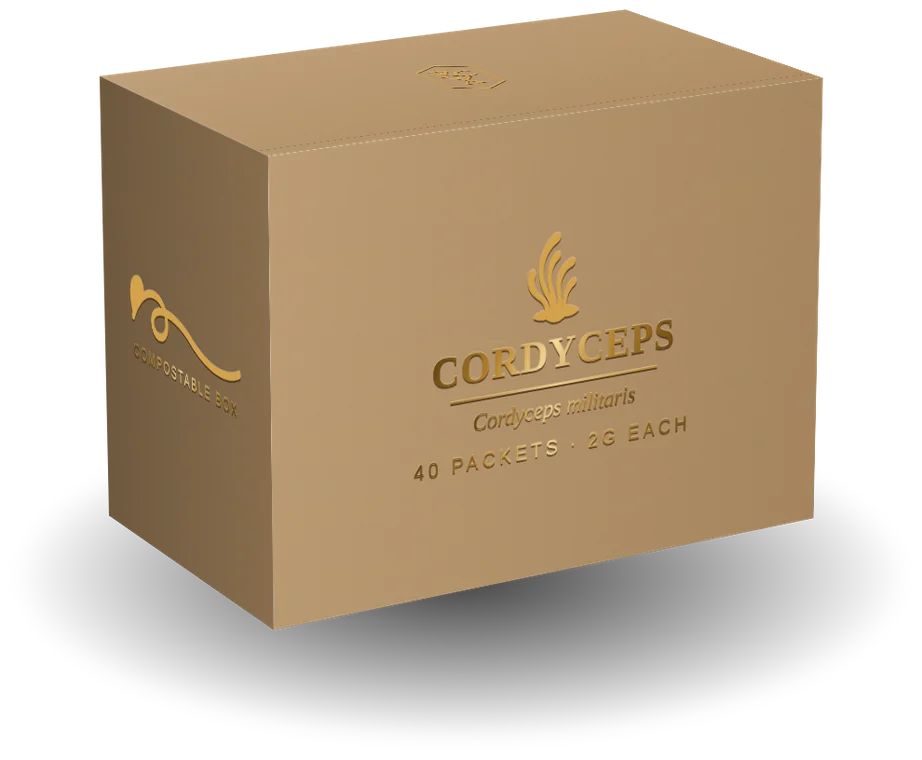
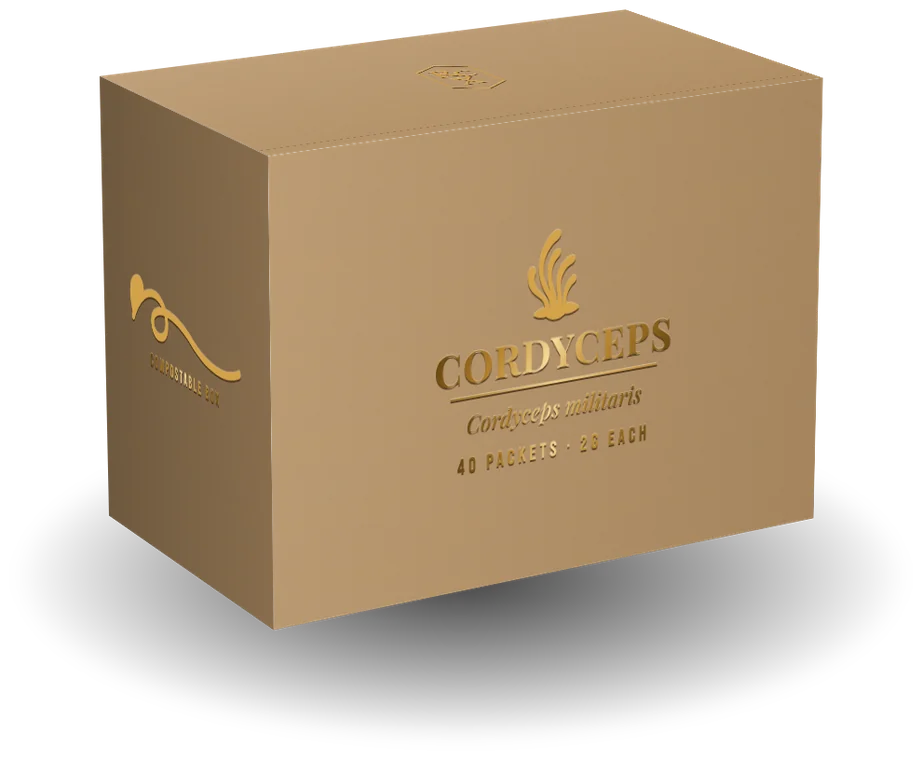
Kraft box renders use the real Bebas and Playfair fonts (#171)
Claude-Session: https://claude.ai/code/session_01MhYC1AY8xeCEEXMzs5T9VR

diff --git a/index.html b/index.html
@@ -1754,7 +1754,7 @@ html body .mx-sec[data-m="mx-tt"] .mx-title>a.mx-ic-link>img{background:linear-g
 
 <article style="border:1px solid rgba(212,162,74,.2);background:linear-gradient(#0A0A09,#000);padding:16px;display:flex;flex-direction:column">
 <div data-pack-stage="box" style="position:relative;aspect-ratio:4/5;background:radial-gradient(70% 55% at 50% 42%,#2a2622 0%,#0d0c0b 60%,#000 100%);margin-bottom:20px;overflow:hidden">
-<img src="assets/photo/pack/box-lm.webp?v=1" alt="Lion's Mane compostable box" style="position:absolute;left:50%;top:52%;width:104%;height:auto;max-width:none;transform:translate(-50%,-50%);display:block">
+<img src="assets/photo/pack/box-lm.webp?v=2" alt="Lion's Mane compostable box" style="position:absolute;left:50%;top:52%;width:104%;height:auto;max-width:none;transform:translate(-50%,-50%);display:block">
 </div>
 <h2 style="font-family:'Playfair Display',serif;font-weight:500;font-size:clamp(30px,2.6vw,38px);color:#F1ECE1;margin:0 0 8px;white-space:nowrap;font-size:clamp(18px,2.05vw,34px)">Lion's Mane Box</h2>
 <p style="font-family:'Bebas Neue',sans-serif;letter-spacing:.14em;font-size:clamp(19px,1.8vw,24px);color:#D4A24A;margin:0 0 10px">COMPOSTABLE BOX</p>
@@ -1780,7 +1780,7 @@ html body .mx-sec[data-m="mx-tt"] .mx-title>a.mx-ic-link>img{background:linear-g
 
 <article style="border:1px solid rgba(212,162,74,.2);background:linear-gradient(#0A0A09,#000);padding:16px;display:flex;flex-direction:column">
 <div data-pack-stage="box" style="position:relative;aspect-ratio:4/5;background:radial-gradient(70% 55% at 50% 42%,#2a2622 0%,#0d0c0b 60%,#000 100%);margin-bottom:20px;overflow:hidden">
-<img src="assets/photo/pack/box-cd.webp?v=1" alt="Cordyceps compostable box" style="position:absolute;left:50%;top:52%;width:104%;height:auto;max-width:none;transform:translate(-50%,-50%);display:block">
+<img src="assets/photo/pack/box-cd.webp?v=2" alt="Cordyceps compostable box" style="position:absolute;left:50%;top:52%;width:104%;height:auto;max-width:none;transform:translate(-50%,-50%);display:block">
 </div>
 <h2 style="font-family:'Playfair Display',serif;font-weight:500;font-size:clamp(30px,2.6vw,38px);color:#F1ECE1;margin:0 0 8px;white-space:nowrap;font-size:clamp(18px,2.05vw,34px)">Cordyceps Box</h2>
 <p style="font-family:'Bebas Neue',sans-serif;letter-spacing:.14em;font-size:clamp(19px,1.8vw,24px);color:#D4A24A;margin:0 0 10px">COMPOSTABLE BOX</p>
@@ -1806,7 +1806,7 @@ html body .mx-sec[data-m="mx-tt"] .mx-title>a.mx-ic-link>img{background:linear-g
 
 <article style="border:1px solid rgba(212,162,74,.2);background:linear-gradient(#0A0A09,#000);padding:16px;display:flex;flex-direction:column">
 <div data-pack-stage="box" style="position:relative;aspect-ratio:4/5;background:radial-gradient(70% 55% at 50% 42%,#2a2622 0%,#0d0c0b 60%,#000 100%);margin-bottom:20px;overflow:hidden">
-<img src="assets/photo/pack/box-tt.webp?v=1" alt="Turkey Tail compostable box" style="position:absolute;left:50%;top:52%;width:104%;height:auto;max-width:none;transform:translate(-50%,-50%);display:block">
+<img src="assets/photo/pack/box-tt.webp?v=2" alt="Turkey Tail compostable box" style="position:absolute;left:50%;top:52%;width:104%;height:auto;max-width:none;transform:translate(-50%,-50%);display:block">
 </div>
 <h2 style="font-family:'Playfair Display',serif;font-weight:500;font-size:clamp(30px,2.6vw,38px);color:#F1ECE1;margin:0 0 8px;white-space:nowrap;font-size:clamp(18px,2.05vw,34px)">Turkey Tail Box</h2>
 <p style="font-family:'Bebas Neue',sans-serif;letter-spacing:.14em;font-size:clamp(19px,1.8vw,24px);color:#D4A24A;margin:0 0 10px">COMPOSTABLE BOX</p>
@@ -1832,7 +1832,7 @@ html body .mx-sec[data-m="mx-tt"] .mx-title>a.mx-ic-link>img{background:linear-g
 
 <article style="border:1px solid rgba(212,162,74,.2);background:linear-gradient(#0A0A09,#000);padding:16px;display:flex;flex-direction:column">
 <div data-pack-stage="box" style="position:relative;aspect-ratio:4/5;background:radial-gradient(70% 55% at 50% 42%,#2a2622 0%,#0d0c0b 60%,#000 100%);margin-bottom:20px;overflow:hidden">
-<img src="assets/photo/pack/box-co.webp?v=1" alt="Combo compostable box" style="position:absolute;left:50%;top:52%;width:112%;height:auto;max-width:none;transform:translate(-50%,-50%);display:block">
+<img src="assets/photo/pack/box-co.webp?v=2" alt="Combo compostable box" style="position:absolute;left:50%;top:52%;width:112%;height:auto;max-width:none;transform:translate(-50%,-50%);display:block">
 </div>
 <h2 style="font-family:'Playfair Display',serif;font-weight:500;font-size:clamp(30px,2.6vw,38px);color:#F1ECE1;margin:0 0 8px;white-space:nowrap;font-size:clamp(18px,2.05vw,34px)">Combo Box</h2>
 <p style="font-family:'Bebas Neue',sans-serif;letter-spacing:.14em;font-size:clamp(19px,1.8vw,24px);color:#D4A24A;margin:0 0 10px">COMPOSTABLE BOX</p>
@@ -1875,7 +1875,7 @@ html body .mx-sec[data-m="mx-tt"] .mx-title>a.mx-ic-link>img{background:linear-g
 </div>
 </section>
 
-<section data-m="pack-sec" class="pk-sec"><div class="pk-wrap"><div class="mx-title"><h2>WHAT IT COMES IN</h2><p>A steel tin you keep. <span>A compostable box to refill it.</span></p></div><div class="pk-grid"><figure class="pk-tile pk-tin"><div class="pk-img"><img src="assets/photo/pack/tin-lm.webp?v=1" alt="Lion's Mane packaging" loading="lazy"></div><figcaption><span class="pk-name">Lion's Mane</span><span class="pk-kind">STEEL TIN · 20 PACKETS</span><span class="pk-dim">About 3.1 x 2.2 x 4 in</span></figcaption></figure><figure class="pk-tile pk-tin"><div class="pk-img"><img src="assets/photo/pack/tin-cd.webp?v=1" alt="Cordyceps packaging" loading="lazy"></div><figcaption><span class="pk-name">Cordyceps</span><span class="pk-kind">STEEL TIN · 20 PACKETS</span><span class="pk-dim">About 3.1 x 2.2 x 4 in</span></figcaption></figure><figure class="pk-tile pk-tin"><div class="pk-img"><img src="assets/photo/pack/tin-tt.webp?v=1" alt="Turkey Tail packaging" loading="lazy"></div><figcaption><span class="pk-name">Turkey Tail</span><span class="pk-kind">STEEL TIN · 20 PACKETS</span><span class="pk-dim">About 3.1 x 2.2 x 4 in</span></figcaption></figure><figure class="pk-tile pk-tin"><div class="pk-img"><img src="assets/photo/pack/tin-co.webp?v=1" alt="Triple Power packaging" loading="lazy"></div><figcaption><span class="pk-name">Triple Power</span><span class="pk-kind">COMBO STEEL TIN · 30 PACKETS</span><span class="pk-dim">About 3.1 x 2.2 x 5 in</span></figcaption></figure><figure class="pk-tile pk-box"><div class="pk-img"><img src="assets/photo/pack/box-lm.webp?v=1" alt="The Refill Box packaging" loading="lazy"></div><figcaption><span class="pk-name">The Refill Box</span><span class="pk-kind">COMPOSTABLE KRAFT · 40 PACKETS</span><span class="pk-dim">About 4.3 x 2.6 x 3.2 in</span></figcaption></figure><figure class="pk-tile pk-box"><div class="pk-img"><img src="assets/photo/pack/box-co.webp?v=1" alt="The Combo Box packaging" loading="lazy"></div><figcaption><span class="pk-name">The Combo Box</span><span class="pk-kind">COMPOSTABLE KRAFT · 60 PACKETS</span><span class="pk-dim">About 6.5 x 2.6 x 3.2 in</span></figcaption></figure></div><p class="pk-note">In the tin, the packets lie flat. In the box, they stand on edge like files. Turn the tin over and one slides out. Sizes are close; final sizes come with the molds.</p></div></section>
+<section data-m="pack-sec" class="pk-sec"><div class="pk-wrap"><div class="mx-title"><h2>WHAT IT COMES IN</h2><p>A steel tin you keep. <span>A compostable box to refill it.</span></p></div><div class="pk-grid"><figure class="pk-tile pk-tin"><div class="pk-img"><img src="assets/photo/pack/tin-lm.webp?v=1" alt="Lion's Mane packaging" loading="lazy"></div><figcaption><span class="pk-name">Lion's Mane</span><span class="pk-kind">STEEL TIN · 20 PACKETS</span><span class="pk-dim">About 3.1 x 2.2 x 4 in</span></figcaption></figure><figure class="pk-tile pk-tin"><div class="pk-img"><img src="assets/photo/pack/tin-cd.webp?v=1" alt="Cordyceps packaging" loading="lazy"></div><figcaption><span class="pk-name">Cordyceps</span><span class="pk-kind">STEEL TIN · 20 PACKETS</span><span class="pk-dim">About 3.1 x 2.2 x 4 in</span></figcaption></figure><figure class="pk-tile pk-tin"><div class="pk-img"><img src="assets/photo/pack/tin-tt.webp?v=1" alt="Turkey Tail packaging" loading="lazy"></div><figcaption><span class="pk-name">Turkey Tail</span><span class="pk-kind">STEEL TIN · 20 PACKETS</span><span class="pk-dim">About 3.1 x 2.2 x 4 in</span></figcaption></figure><figure class="pk-tile pk-tin"><div class="pk-img"><img src="assets/photo/pack/tin-co.webp?v=1" alt="Triple Power packaging" loading="lazy"></div><figcaption><span class="pk-name">Triple Power</span><span class="pk-kind">COMBO STEEL TIN · 30 PACKETS</span><span class="pk-dim">About 3.1 x 2.2 x 5 in</span></figcaption></figure><figure class="pk-tile pk-box"><div class="pk-img"><img src="assets/photo/pack/box-lm.webp?v=2" alt="The Refill Box packaging" loading="lazy"></div><figcaption><span class="pk-name">The Refill Box</span><span class="pk-kind">COMPOSTABLE KRAFT · 40 PACKETS</span><span class="pk-dim">About 4.3 x 2.6 x 3.2 in</span></figcaption></figure><figure class="pk-tile pk-box"><div class="pk-img"><img src="assets/photo/pack/box-co.webp?v=2" alt="The Combo Box packaging" loading="lazy"></div><figcaption><span class="pk-name">The Combo Box</span><span class="pk-kind">COMPOSTABLE KRAFT · 60 PACKETS</span><span class="pk-dim">About 6.5 x 2.6 x 3.2 in</span></figcaption></figure></div><p class="pk-note">In the tin, the packets lie flat. In the box, they stand on edge like files. Turn the tin over and one slides out. Sizes are close; final sizes come with the molds.</p></div></section>
 <section class="sr-sec" data-m="shop-research"><div class="sr-wrap"><div class="mx-title"><h2>THE RESEARCH</h2><p>Don't ask us. <span>Ask them.</span></p></div><div class="sr-grid"><a href="https://pubmed.ncbi.nlm.nih.gov/?term=%22Hericium+erinaceus%22" target="_blank" rel="noopener" class="mx-box mx-lab"><span class="lab-hd">LAB REPORT · PUBMED SEARCH · OCT 2026</span><span class="lab-title">LION'S MANE · HERICIUM ERINACEUS</span><span class="lab-rows"><span class="lab-row"><span class="lab-n">590</span><span class="lab-bar"><i style="width:100%"></i></span><span class="lab-l">PUBLISHED PAPERS</span></span><span class="lab-row"><span class="lab-n">343</span><span class="lab-bar"><i style="width:58%"></i></span><span class="lab-l">LAST FIVE YEARS</span></span><span class="lab-row"><span class="lab-n">170</span><span class="lab-bar"><i style="width:29%"></i></span><span class="lab-l">HUMAN RESEARCH</span></span><span class="lab-row"><span class="lab-n">7</span><span class="lab-bar"><i style="width:4%"></i></span><span class="lab-l">CLINICAL TRIALS</span></span></span><span class="lab-src">Source: U.S. National Library of Medicine</span><span class="mx-cta">SEARCH IT YOURSELF&nbsp;→</span></a><a href="https://pubmed.ncbi.nlm.nih.gov/?term=%22Cordyceps+militaris%22" target="_blank" rel="noopener" class="mx-box mx-lab"><span class="lab-hd">LAB REPORT · PUBMED SEARCH · OCT 2026</span><span class="lab-title">CORDYCEPS · CORDYCEPS MILITARIS</span><span class="lab-rows"><span class="lab-row"><span class="lab-n">2,946</span><span class="lab-bar"><i style="width:100%"></i></span><span class="lab-l">PAPERS, ALL CORDYCEPS</span></span><span class="lab-row"><span class="lab-n">1,070</span><span class="lab-bar"><i style="width:36%"></i></span><span class="lab-l">C. MILITARIS, IN YOUR PACKET</span></span><span class="lab-row"><span class="lab-n">641</span><span class="lab-bar"><i style="width:22%"></i></span><span class="lab-l">HUMAN RESEARCH</span></span><span class="lab-row"><span class="lab-n">40</span><span class="lab-bar"><i style="width:4%"></i></span><span class="lab-l">CLINICAL TRIALS</span></span></span><span class="lab-src">Source: U.S. National Library of Medicine</span><span class="mx-cta">SEARCH IT YOURSELF&nbsp;→</span></a><a href="https://pubmed.ncbi.nlm.nih.gov/?term=%22Trametes+versicolor%22+OR+%22Coriolus+versicolor%22" target="_blank" rel="noopener" class="mx-box mx-lab"><span class="lab-hd">LAB REPORT · PUBMED SEARCH · OCT 2026</span><span class="lab-title">TURKEY TAIL · TRAMETES VERSICOLOR</span><span class="lab-rows lab-big"><span class="lab-row"><span class="lab-n">1,800</span><span class="lab-bar"><i style="width:100%"></i></span><span class="lab-l">PUBLISHED PAPERS</span></span><span class="lab-row"><span class="lab-n">221</span><span class="lab-bar"><i style="width:12%"></i></span><span class="lab-l">HUMAN RESEARCH</span></span><span class="lab-row"><span class="lab-n">101</span><span class="lab-bar"><i style="width:6%"></i></span><span class="lab-l">CLINICAL TRIALS</span></span></span><span class="lab-src">Source: U.S. National Library of Medicine</span><span class="mx-cta">SEARCH IT YOURSELF&nbsp;→</span></a></div><div class="cx" style="margin-top:16px"><div class="cx-track"><a href="https://www.jstage.jst.go.jp/article/biomedres/40/4/40_125/_article" target="_blank" rel="noopener" class="mx-box" style="background-image:linear-gradient(to top,rgba(0,0,0,.94) 0%,rgba(0,0,0,.72) 55%,rgba(0,0,0,.4) 100%),url('assets/photo/lab-people.jpg');background-position:center,center"><span class="mx-tag">HUMAN TRIAL · PLACEBO CONTROLLED</span><span class="mx-head" style="font-size:clamp(22px,1.9vw,28px);max-width:26ch">Improvement of cognitive functions by oral intake of Hericium erinaceus</span><span class="mx-small">Biomedical Research, Japan, 2019</span><span class="mx-text">Healthy adults took lion's mane every day for twelve weeks and were scored on cognitive tests against a placebo group.</span><span class="mx-cta">READ IT&nbsp;→</span></a><a href="https://news.uq.edu.au/2023-02-10-mushrooms-magnify-memory-boosting-nerve-growth" target="_blank" rel="noopener" class="mx-box" style="background-image:linear-gradient(to top,rgba(0,0,0,.94) 0%,rgba(0,0,0,.72) 55%,rgba(0,0,0,.4) 100%),url('assets/photo/bamboo-window-lab.jpg');background-position:center,center"><span class="mx-tag">UNIVERSITY RESEARCH</span><span class="mx-head" style="font-size:clamp(22px,1.9vw,28px);max-width:26ch">Mushrooms magnify memory by boosting nerve growth</span><span class="mx-small">The University of Queensland, 2023</span><span class="mx-text">A university lab looking at compounds in lion's mane and how they affect nerve cell growth. Early science, from a real university.</span><span class="mx-cta">READ IT&nbsp;→</span></a><a href="https://journals.plos.org/plosone/article?id=10.1371/journal.pone.0351725" target="_blank" rel="noopener" class="mx-box" style="background-image:linear-gradient(to top,rgba(0,0,0,.94) 0%,rgba(0,0,0,.72) 55%,rgba(0,0,0,.4) 100%),url('assets/photo/hex-lab.jpg');background-position:center,center"><span class="mx-tag">RANDOMIZED CROSSOVER TRIAL</span><span class="mx-head" style="font-size:clamp(22px,1.9vw,28px);max-width:26ch">Cordyceps militaris and faster reaction times</span><span class="mx-small">PLOS ONE, archived by the National Library of Medicine</span><span class="mx-text">The same people were tested with and without cordyceps. Oxygen uptake and reaction time were measured.</span><span class="mx-cta">READ IT&nbsp;→</span></a><a href="https://www.sciencedirect.com/science/article/abs/pii/S156757690300290X" target="_blank" rel="noopener" class="mx-box" style="background-image:linear-gradient(to top,rgba(0,0,0,.94) 0%,rgba(0,0,0,.72) 55%,rgba(0,0,0,.4) 100%),url('assets/photo/reactors-lab.jpg');background-position:center,center"><span class="mx-tag">DOUBLE BLIND · PLACEBO CONTROLLED</span><span class="mx-head" style="font-size:clamp(22px,1.9vw,28px);max-width:26ch">Immune effects of Yun Zhi in healthy adults</span><span class="mx-small">International Immunopharmacology</span><span class="mx-text">Yun Zhi is turkey tail. Healthy adults, nobody knowing who got what, immune markers measured against placebo.</span><span class="mx-cta">READ IT&nbsp;→</span></a><a href="https://pubmed.ncbi.nlm.nih.gov/25006989/" target="_blank" rel="noopener" class="mx-box" style="background-image:linear-gradient(to top,rgba(0,0,0,.94) 0%,rgba(0,0,0,.72) 55%,rgba(0,0,0,.4) 100%),url('assets/photo/tank-lab.jpg');background-position:center,center"><span class="mx-tag">HUMAN TRIAL · GUT MICROBIOME</span><span class="mx-head" style="font-size:clamp(22px,1.9vw,28px);max-width:26ch">Turkey tail and the gut microbiome</span><span class="mx-small">PubMed, National Library of Medicine</span><span class="mx-text">How turkey tail's polysaccharopeptide affects the bacteria that live in the gut, in healthy volunteers.</span><span class="mx-cta">READ IT&nbsp;→</span></a><a href="https://pubmed.ncbi.nlm.nih.gov/" target="_blank" rel="noopener" class="mx-box" style="background-image:linear-gradient(to top,rgba(0,0,0,.94) 0%,rgba(0,0,0,.72) 55%,rgba(0,0,0,.4) 100%),url('assets/photo/mortar-lab.jpg');background-position:center,center"><span class="mx-tag">CHECK US YOURSELF</span><span class="mx-head" style="font-size:clamp(22px,1.9vw,28px);max-width:26ch">Search the Latin name at pubmed.gov</span><span class="mx-small">Free, from the U.S. National Library of Medicine</span><span class="mx-text">Type "Hericium erinaceus", "Cordyceps militaris" or "Trametes versicolor" in quotes, then filter by Clinical Trial.</span><span class="mx-cta">READ IT&nbsp;→</span></a></div><div class="rit-nav"><button class="rit-arrow" data-d="-1" onClick="{{ cxMove }}" aria-label="Previous">‹</button><span>SCROLL FOR MORE</span><button class="rit-arrow" data-d="1" onClick="{{ cxMove }}" aria-label="Next">›</button></div></div><div class="mx-title pr-title" data-press="shop"><h2>IN THE MAGAZINES</h2><p>The big names are talking. <span>Read what they wrote.</span></p></div><div class="cx"><div class="cx-track"><a href="https://www.nationalgeographic.com/health/article/mushroom-health-benefits-lions-mane-chaga-oyster-reishi" target="_blank" rel="noopener" class="mx-box mx-press"><span class="pr-mast pr-caps">NATIONAL GEOGRAPHIC</span><span class="mx-tag">THE AGING BRAIN</span><span class="pr-head">“How to Hack Mushrooms to Make Them Even More Nutritious”</span><span class="pr-date">OCTOBER 2026</span><span class="pr-text">Older adults scored better on thinking tests with lion&#x27;s mane. Healthy adults over 55 got quicker.</span><span class="mx-cta">READ THE ARTICLE&nbsp;→</span></a><a href="https://vault.si.com/vault/1993/09/20/scorecard" target="_blank" rel="noopener" class="mx-box mx-press"><span class="pr-mast pr-caps">SPORTS ILLUSTRATED</span><span class="mx-tag">THE RECORD BREAKERS</span><span class="pr-head">“Stunning Runs”</span><span class="pr-date">SEPTEMBER 1993</span><span class="pr-text">China&#x27;s record breaking runners credited a tonic made from caterpillar fungus. That&#x27;s cordyceps.</span><span class="mx-cta">READ THE ARTICLE&nbsp;→</span></a><a href="https://www.nationalgeographic.com/science/article/mushroom-supplements-chaga-reishi-lions-mane" target="_blank" rel="noopener" class="mx-box mx-press"><span class="pr-mast pr-caps">NATIONAL GEOGRAPHIC</span><span class="mx-tag">THE MOST STUDIED</span><span class="pr-head">“Turkey tail. Chaga. Lion&#x27;s mane. Do these mushroom supplements really help you?”</span><span class="pr-date">JANUARY 2024</span><span class="pr-text">Perhaps the most widely studied medicinal mushroom, says National Geographic.</span><span class="mx-cta">READ THE ARTICLE&nbsp;→</span></a><a href="https://www.newsweek.com/lions-mane-what-medicinal-mushrooms-do-scientists-explain-1971415" target="_blank" rel="noopener" class="mx-box mx-press"><span class="pr-mast">Newsweek</span><span class="mx-tag">THE SCIENTISTS</span><span class="pr-head">“Lion&#x27;s Mane: What Do Medicinal Mushrooms Do? Scientists Explain”</span><span class="pr-date">OCTOBER 2024</span><span class="pr-text">Scientists call the memory findings promising, mostly in older adults.</span><span class="mx-cta">READ THE ARTICLE&nbsp;→</span></a><a href="https://run.outsideonline.com/nutrition-and-health/training-nutrition/i-tested-4-adaptogenic-mushroom-supplements-heres-what-they-did-for-my-running/" target="_blank" rel="noopener" class="mx-box mx-press"><span class="pr-mast">Outside</span><span class="mx-tag">THE RUNNER&#x27;S TEST</span><span class="pr-head">“I Tested 4 Adaptogenic Mushroom Supplements. Here&#x27;s What They Did for My Running.”</span><span class="pr-date">JULY 2026</span><span class="pr-text">A runner put mushroom supplements to the test. Cordyceps lifted her energy.</span><span class="mx-cta">READ THE ARTICLE&nbsp;→</span></a><a href="https://www.nationalgeographic.com/photography/photo-of-the-day/2014/11/turkey-tail-fungus/" target="_blank" rel="noopener" class="mx-box mx-press"><span class="pr-mast pr-caps">NATIONAL GEOGRAPHIC</span><span class="mx-tag">PHOTO OF THE DAY</span><span class="pr-head">“Turning Tail”</span><span class="pr-date">NOVEMBER 2014</span><span class="pr-text">Turkey tail made Photo of the Day. Believed to strengthen the immune system.</span><span class="mx-cta">READ THE ARTICLE&nbsp;→</span></a><a href="https://www.nationalgeographic.com/magazine/article/tibetan-mushroom" target="_blank" rel="noopener" class="mx-box mx-press"><span class="pr-mast pr-caps">NATIONAL GEOGRAPHIC</span><span class="mx-tag">THE GOLD RUSH</span><span class="pr-head">“Tibetan Gold”</span><span class="pr-date">AUGUST 2012</span><span class="pr-text">The hunt for wild cordyceps on the roof of the world.</span><span class="mx-cta">READ THE ARTICLE&nbsp;→</span></a><a href="https://www.bloomberg.com/news/newsletters/2023-11-13/mushrooms-are-having-a-cbd-moment" target="_blank" rel="noopener" class="mx-box mx-press"><span class="pr-mast">Bloomberg</span><span class="mx-tag">THE BOOM</span><span class="pr-head">“Functional Fungi, With Little FDA Oversight, Are the New CBD”</span><span class="pr-date">NOVEMBER 2023</span><span class="pr-text">Lion&#x27;s mane goes mainstream. Bloomberg calls mushrooms the new CBD.</span><span class="mx-cta">READ THE ARTICLE&nbsp;→</span></a></div><div class="rit-nav"><button class="rit-arrow" data-d="-1" onClick="{{ cxMove }}" aria-label="Previous">‹</button><span>SCROLL FOR MORE</span><button class="rit-arrow" data-d="1" onClick="{{ cxMove }}" aria-label="Next">›</button></div></div></div></section>
 <section data-m="soon-sec" style="padding:0 28px 110px;background:#000">
 <div style="max-width:1300px;margin:0 auto">
